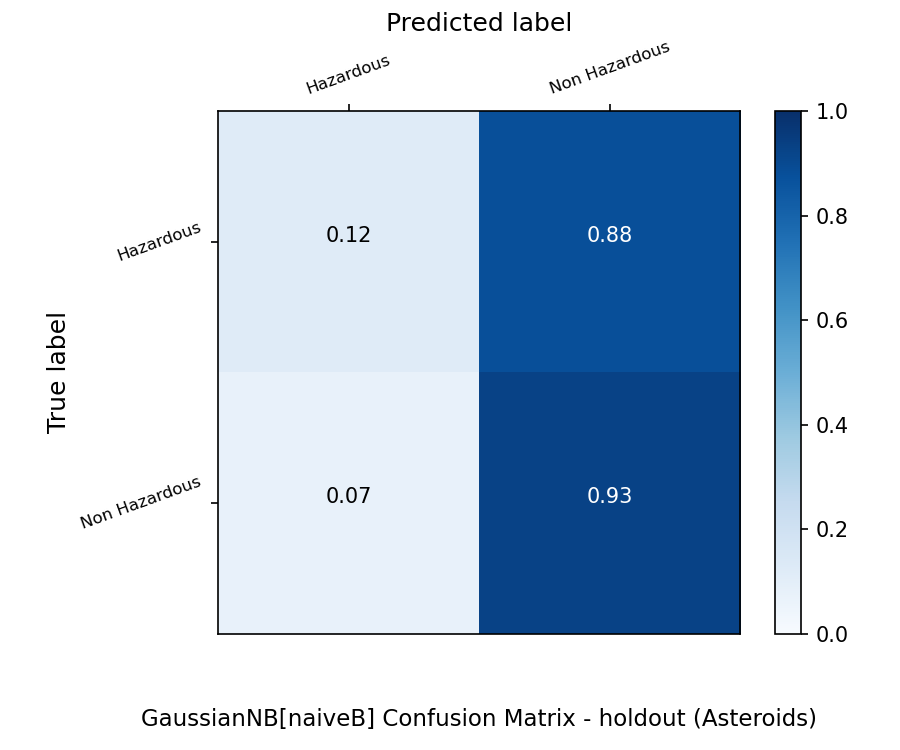
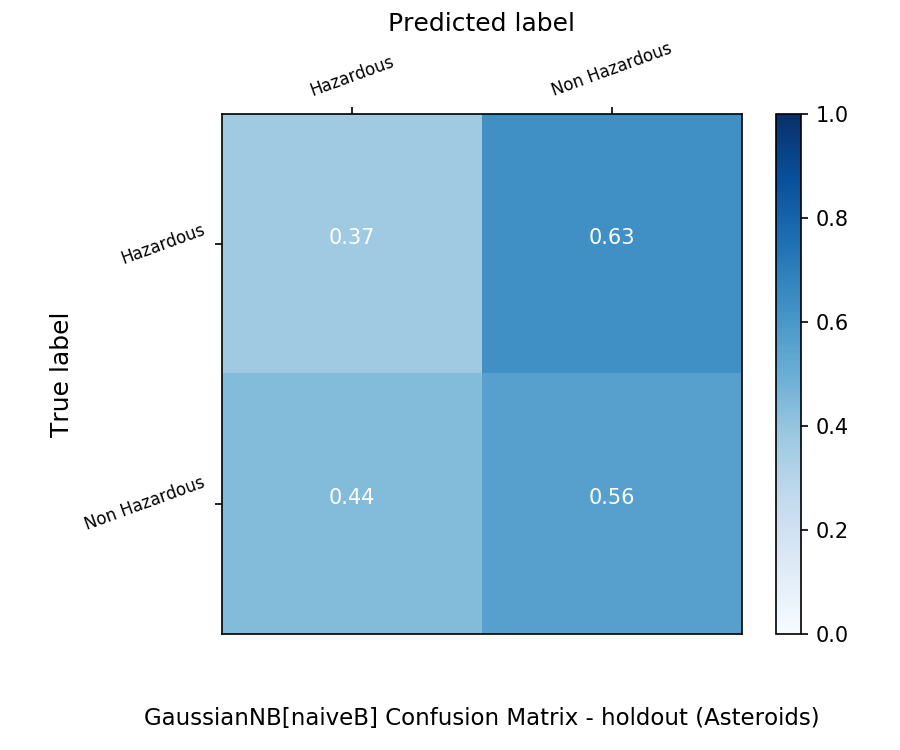
Output averaged performance metrics

diff --git a/ex_1_total/classifier.py b/ex_1_total/classifier.py
@@ -180,8 +180,8 @@ def evaluation(y_test,y_pred, normalize='true'):
     report = classification_report(y_test, y_pred, output_dict= True)
     #print("Confusion matrix: ", confusion_m)
     #print("accuracy: ", accuracy)
-    for i in report:
-        print(i, ":", report[i])
+    #for i in report:
+    #    print(i, ":", report[i])
     #print("Report: ", report)
 
     return confusion_m, accuracy, report
@@ -400,7 +400,7 @@ def clean_fast():
     For cross validation, choose the number of splits [int]
     cv_splits = 10 (default) """
 
-validation = 'holdout'
+validation = 'crossvalidation'
 cv_splits = 10
 
 """ Choose the types of classifier [list]
@@ -410,8 +410,9 @@ classifiers = ['KNeighbors', 'DecisionTree', 'GaussianNB']
 """ Choose the datasets [list]
     datasets = ['asteroids','advertisingBidding' , 'breastCancer', 'drugs' ] """
 datasets = ['asteroids','advertisingBidding' , 'breastCancer', 'drugs' ]
+datasets = ['asteroids' ]
 
-""" Choose if the target features of the datasets should be balanced before classification 
+""" Choose if the target features of the datasets should be balanced before classification
     balance = True,False """
 balance = True
 
@@ -463,20 +464,30 @@ def main():
                             print("\n\n\n\n\nResults of " + classifier + " " + param + ". Index for " + target )
                             cf = Classifier(x_train,y_train, classifier=classifier, criterion=param )
 
+                            y_prediction=predict(x_test, cf, target)
+                            confusion_m, accuracy, report = evaluation(y_test, y_prediction )
+                            printMatrix(target, confusion_m, classifier, param, dataset,
+                                        balance = balance, validation = validation)
+
                     if classifier == 'KNeighbors':
                         for param in [5, 10 , 50]:
                             print("\n\n\n\n\nResults of " + classifier + " with k=" + str(param) + ". Index for " + target )
                             cf = Classifier(x_train, y_train, classifier=classifier, n_neighbors = param )
+
+                            y_prediction=predict(x_test, cf, target)
+                            confusion_m, accuracy, report = evaluation(y_test, y_prediction )
+                            printMatrix(target, confusion_m, classifier, param, dataset,
+                                        balance = balance, validation = validation)
 
                     if classifier == 'GaussianNB':
                         for param in ['naiveB']:
                             print("\n\n\n\n\nResults of " + classifier + " " + param + ". Index for " + target )
                             cf = Classifier(x_train, y_train, classifier=classifier)
 
-                    y_prediction=predict(x_test, cf, target)
-                    confusion_m, accuracy, report = evaluation(y_test, y_prediction )
-                    printMatrix(target, confusion_m, classifier, param, dataset,
-                                balance = balance, validation = validation)
+                            y_prediction=predict(x_test, cf, target)
+                            confusion_m, accuracy, report = evaluation(y_test, y_prediction )
+                            printMatrix(target, confusion_m, classifier, param, dataset,
+                                        balance = balance, validation = validation)
 
             elif validation == 'crossvalidation':
                 if dataset == "drugs":  # will not run cross validation on drug dataset
@@ -484,67 +495,103 @@ def main():
 
                 confusion_m = np.zeros((2,2))
                 accuracy = 0
+                macro_precision = 0
+                macro_recall = 0
+                macro_f1 = 0
 
                 kf = KFold(n_splits=cv_splits)
                 for classifier in classifiers:
                     if classifier == 'DecisionTree' : # Run DecisionTreeClassifier
                         for param in ['gini','entropy'] :  # run the classifier with two different parameter
+                            print("\n\n\n\n\n")
                             for fold, (train_index, test_index) in enumerate(kf.split(x), 1):
                                 x_train = x.iloc[train_index]
                                 y_train = y.iloc[train_index]
                                 x_test = x.iloc[test_index]
                                 y_test = y.iloc[test_index]
                                 #for param in ['gini', 'entropy']:  # run the classifier with two different parameter
-                                print("\n\n\n\n\nResults of " + classifier + " " + param + ". Index for " + target )
+                                print("Results of " + classifier + " " + param + ". Index for " + target )
                                 cf = Classifier(x_train,y_train, classifier=classifier, criterion=param )
                                 y_prediction=predict(x_test,cf,target)
                                 confusion_mT, accuracyT, report = evaluation(y_test, y_prediction, None)
                                 confusion_m += confusion_mT
                                 accuracy += accuracyT
+                                macro_precision += report['macro avg']['precision']
+                                macro_recall += report['macro avg']['recall']
+                                macro_f1 += report['macro avg']['f1-score']
                             # after all folds, rescale the matrix and the accuracy and print it
                             row_sums = confusion_m.sum(axis=1)
                             confusion_m = confusion_m / row_sums[:, np.newaxis]
                             accuracy /= cv_splits
+                            macro_precision /= cv_splits
+                            macro_recall /= cv_splits
+                            macro_f1 /= cv_splits
+                            print("Accuracy:", accuracy)
+                            print("Precision (macro avg):", macro_precision)
+                            print("Recall (macro avg):", macro_recall)
+                            print("F1-score (macro avg):", macro_f1)
                             printMatrix(target, confusion_m, classifier, param, dataset,
                                         balance = balance, validation = validation)
 
                     if classifier == 'KNeighbors':
                         for param in [5, 10 , 50]:
+                            print("\n\n\n\n\n")
                             for fold, (train_index, test_index) in enumerate(kf.split(x), 1):
                                 x_train = x.iloc[train_index]
                                 y_train = y.iloc[train_index]
                                 x_test = x.iloc[test_index]
                                 y_test = y.iloc[test_index]
-                                print("\n\n\n\n\nResults of " + classifier + " with k=" + str(param) + ". Index for " + target )
+                                print("Results of " + classifier + " with k=" + str(param) + ". Index for " + target )
                                 cf = Classifier(x_train, y_train, classifier=classifier, n_neighbors = param )
                                 y_prediction=predict(x_test,cf,target)
                                 confusion_mT, accuracyT, report = evaluation(y_test, y_prediction, None)
                                 confusion_m += confusion_mT
                                 accuracy += accuracyT
+                                macro_precision += report['macro avg']['precision']
+                                macro_recall += report['macro avg']['recall']
+                                macro_f1 += report['macro avg']['f1-score']
                             # after all folds, rescale the matrix and the accuracy and print it
                             row_sums = confusion_m.sum(axis=1)
                             confusion_m = confusion_m / row_sums[:, np.newaxis]
                             accuracy /= cv_splits
+                            macro_precision /= cv_splits
+                            macro_recall /= cv_splits
+                            macro_f1 /= cv_splits
+                            print("Accuracy:", accuracy)
+                            print("Precision (macro avg):", macro_precision)
+                            print("Recall (macro avg):", macro_recall)
+                            print("F1-score (macro avg):", macro_f1)
                             printMatrix(target, confusion_m, classifier, param, dataset,
                                         balance = balance, validation = validation)
 
                     if classifier == 'GaussianNB':
                         for param in ['naiveB']:
+                            print("\n\n\n\n\n")
                             for fold, (train_index, test_index) in enumerate(kf.split(x), 1):
                                 x_train = x.iloc[train_index]
                                 y_train = y.iloc[train_index]
                                 x_test = x.iloc[test_index]
                                 y_test = y.iloc[test_index]
-                                print("\n\n\n\n\nResults of " + classifier + " " + param + ". Index for " + target )
+                                print("Results of " + classifier + " " + param + ". Index for " + target )
                                 cf = Classifier(x_train, y_train, classifier=classifier)
                                 y_prediction=predict(x_test, cf, target)
                                 confusion_mT, accuracyT, report = evaluation(y_test, y_prediction, None )
                                 confusion_m += confusion_mT
                                 accuracy += accuracyT
+                                macro_precision += report['macro avg']['precision']
+                                macro_recall += report['macro avg']['recall']
+                                macro_f1 += report['macro avg']['f1-score']
                             # after all folds, rescale the matrix and the accuracy and print it
                             row_sums = confusion_m.sum(axis=1)
                             confusion_m = confusion_m / row_sums[:, np.newaxis]
                             accuracy /= cv_splits
+                            macro_precision /= cv_splits
+                            macro_recall /= cv_splits
+                            macro_f1 /= cv_splits
+                            print("Accuracy:", accuracy)
+                            print("Precision (macro avg):", macro_precision)
+                            print("Recall (macro avg):", macro_recall)
+                            print("F1-score (macro avg):", macro_f1)
                             printMatrix(target, confusion_m, classifier, param, dataset,
                                         balance = balance, validation = validation)
             else:
@@ -559,13 +606,13 @@ if __name__=="__main__":
     classifiers = ['KNeighbors', 'DecisionTree', 'GaussianNB']
     datasets = ['asteroids', 'advertisingBidding', 'breastCancer', 'drugs']
 
-    balance = True
-    validation = 'holdout'
-    main()
+    #balance = True
+    #validation = 'holdout'
+    #main()
 
-    balance = False
-    validation = 'holdout'
-    main()
+    #balance = False
+    #validation = 'holdout'
+    #main()
 
     balance = True
     validation = 'crossvalidation'
